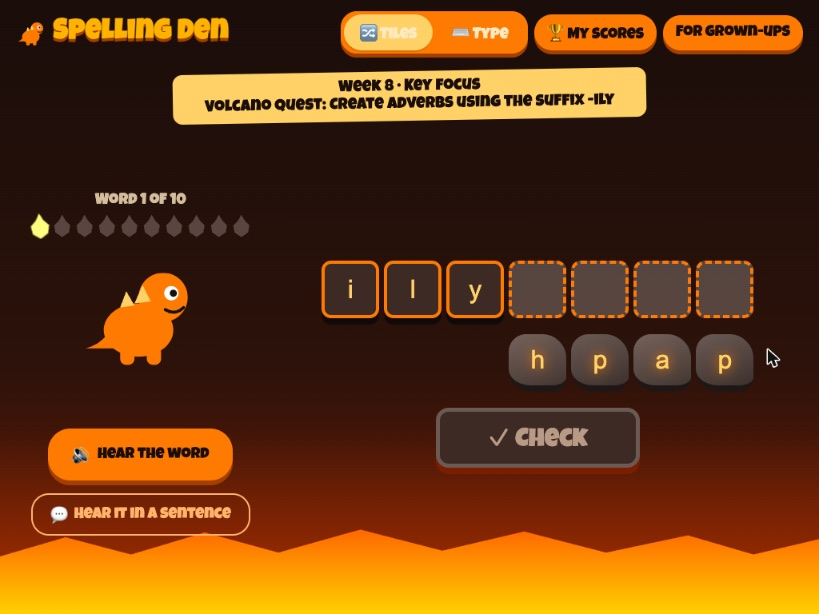
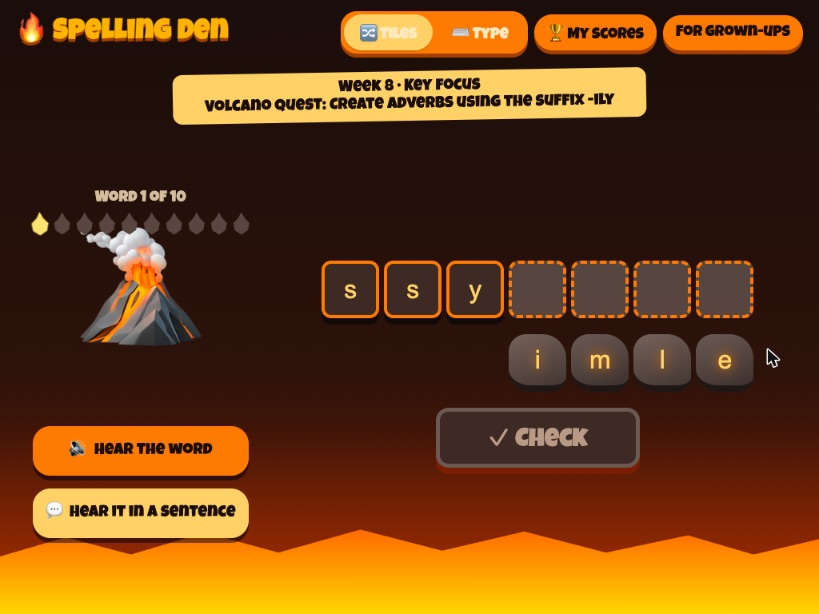
Theme mascots replace the dinosaur on home and spelling pages (pixel space invader, space rocket, etc)

diff --git a/spelling-den/index.html b/spelling-den/index.html
@@ -30,15 +30,11 @@
       <circle cx="90" cy="42" r="7" fill="#fff"/><circle cx="92" cy="42" r="3.5" fill="#111"/>
       <path d="M84 58 Q94 64 102 56" stroke="#111" stroke-width="3" fill="none" stroke-linecap="round"/>
     </symbol>
-    <symbol id="dino-pix" viewBox="0 0 120 120" shape-rendering="crispEdges">
-      <g style="fill:var(--dino-body,#00ff88)"><rect x="24" y="60" width="60" height="36"/><rect x="60" y="24" width="48" height="48"/><rect x="12" y="84" width="16" height="12"/><rect x="36" y="96" width="16" height="16"/><rect x="64" y="96" width="16" height="16"/></g>
-      <g style="fill:var(--dino-spike,#ff3df2)"><rect x="36" y="48" width="12" height="12"/><rect x="52" y="40" width="12" height="20"/></g>
-      <rect x="84" y="36" width="12" height="12" fill="#fff"/><rect x="90" y="40" width="6" height="6" fill="#14052e"/>
-    </symbol>
+    <symbol id="dino-pix" viewBox="0 0 120 120" shape-rendering="crispEdges"><g style="fill:var(--dino-body,#00ff88)"><rect x="25" y="20" width="10" height="10"/><rect x="85" y="20" width="10" height="10"/><rect x="35" y="30" width="10" height="10"/><rect x="75" y="30" width="10" height="10"/><rect x="25" y="40" width="10" height="10"/><rect x="35" y="40" width="10" height="10"/><rect x="45" y="40" width="10" height="10"/><rect x="55" y="40" width="10" height="10"/><rect x="65" y="40" width="10" height="10"/><rect x="75" y="40" width="10" height="10"/><rect x="85" y="40" width="10" height="10"/><rect x="15" y="50" width="10" height="10"/><rect x="25" y="50" width="10" height="10"/><rect x="45" y="50" width="10" height="10"/><rect x="55" y="50" width="10" height="10"/><rect x="65" y="50" width="10" height="10"/><rect x="85" y="50" width="10" height="10"/><rect x="95" y="50" width="10" height="10"/><rect x="5" y="60" width="10" height="10"/><rect x="15" y="60" width="10" height="10"/><rect x="25" y="60" width="10" height="10"/><rect x="35" y="60" width="10" height="10"/><rect x="45" y="60" width="10" height="10"/><rect x="55" y="60" width="10" height="10"/><rect x="65" y="60" width="10" height="10"/><rect x="75" y="60" width="10" height="10"/><rect x="85" y="60" width="10" height="10"/><rect x="95" y="60" width="10" height="10"/><rect x="105" y="60" width="10" height="10"/><rect x="5" y="70" width="10" height="10"/><rect x="25" y="70" width="10" height="10"/><rect x="35" y="70" width="10" height="10"/><rect x="45" y="70" width="10" height="10"/><rect x="55" y="70" width="10" height="10"/><rect x="65" y="70" width="10" height="10"/><rect x="75" y="70" width="10" height="10"/><rect x="85" y="70" width="10" height="10"/><rect x="105" y="70" width="10" height="10"/><rect x="5" y="80" width="10" height="10"/><rect x="25" y="80" width="10" height="10"/><rect x="85" y="80" width="10" height="10"/><rect x="105" y="80" width="10" height="10"/><rect x="35" y="90" width="10" height="10"/><rect x="45" y="90" width="10" height="10"/><rect x="65" y="90" width="10" height="10"/><rect x="75" y="90" width="10" height="10"/></g></symbol>
   </svg>
   <div class="app">
     <header class="top-bar">
-      <a class="brand" href="../index.html"><span class="brand-dino"><span class="dino-emoji">🦕</span><svg class="dino-svg dino-smooth" aria-hidden="true"><use href="#dino-sym"/></svg><svg class="dino-svg dino-pixel" aria-hidden="true"><use href="#dino-pix"/></svg></span> <span>Spelling Den</span></a>
+      <a class="brand" href="../index.html"><span class="brand-dino"><span class="dino-emoji">🦕</span><span class="dino-mascot" aria-hidden="true"></span><svg class="dino-svg dino-pixel" aria-hidden="true"><use href="#dino-pix"/></svg></span> <span>Spelling Den</span></a>
       <div class="top-bar-actions">
         <div id="modeToggle" class="mode-toggle" role="group" aria-label="How to enter letters">
           <button id="modeTilesBtn" class="mode-btn" type="button" aria-pressed="true">🔀 Tiles</button>
@@ -59,7 +55,7 @@
         <div id="wordProgressLabel" class="word-progress-label">Word 1 of 10</div>
         <div id="progressDots" class="progress-dots"></div>
       </div>
-      <div id="dino" class="dino" aria-hidden="true"><span class="dino-emoji">🦖</span><svg class="dino-svg dino-smooth" aria-hidden="true"><use href="#dino-sym"/></svg><svg class="dino-svg dino-pixel" aria-hidden="true"><use href="#dino-pix"/></svg></div>
+      <div id="dino" class="dino" aria-hidden="true"><span class="dino-emoji">🦖</span><span class="dino-mascot" aria-hidden="true"></span><svg class="dino-svg dino-pixel" aria-hidden="true"><use href="#dino-pix"/></svg></div>
       <div id="cheer" class="cheer" aria-hidden="true"></div>
       <p id="liveStatus" class="sr-only" role="status" aria-live="polite"></p>
       <button id="hearBtn" class="hear-btn" type="button" aria-label="Hear the word">
@@ -81,7 +77,7 @@
 
     <div id="roundComplete" class="round-complete" hidden>
       <div class="round-complete-card">
-        <div id="roundCompleteDino" class="round-complete-dino" aria-hidden="true"><span class="dino-emoji">🦖</span><svg class="dino-svg dino-smooth" aria-hidden="true"><use href="#dino-sym"/></svg><svg class="dino-svg dino-pixel" aria-hidden="true"><use href="#dino-pix"/></svg></div>
+        <div id="roundCompleteDino" class="round-complete-dino" aria-hidden="true"><span class="dino-emoji">🦖</span><span class="dino-mascot" aria-hidden="true"></span><svg class="dino-svg dino-pixel" aria-hidden="true"><use href="#dino-pix"/></svg></div>
         <div id="roundCompleteEggs" class="progress-dots round-complete-eggs" aria-hidden="true"></div>
         <div class="round-complete-score">
           <strong id="roundCompleteScore" class="round-complete-number"></strong>
@@ -116,7 +112,7 @@
 
   <div id="yearSelect" class="year-select">
     <div class="year-select-card">
-      <div class="round-complete-emoji"><span class="dino-emoji">🦕</span><svg class="dino-svg dino-smooth" aria-hidden="true"><use href="#dino-sym"/></svg><svg class="dino-svg dino-pixel" aria-hidden="true"><use href="#dino-pix"/></svg></div>
+      <div class="round-complete-emoji"><span class="dino-emoji">🦕</span><span class="dino-mascot" aria-hidden="true"></span><svg class="dino-svg dino-pixel" aria-hidden="true"><use href="#dino-pix"/></svg></div>
       <h2 class="year-select-heading">Spelling Den</h2>
       <p class="year-select-sub">Which spellings today?</p>
       <button id="year3Btn" class="play-again-btn year-select-btn" type="button">Year 3</button>

diff --git a/css/themes.css b/css/themes.css
@@ -292,3 +292,17 @@ html[data-theme="split"] body, html[data-theme="split"] .home, html[data-theme="
 html[data-theme="pixel"] .tile { min-width: 0; }
 html[data-theme="pixel"] .tile { padding-left: 12px; padding-right: 12px; }
 html[data-theme="pixel"]:not([data-x]) .tile .tile-label { font-size: clamp(0.8rem, 2.4vw, 1.3rem); max-width: 100%; overflow-wrap: anywhere; text-align: center; line-height: 1.5; }
+
+/* Theme mascots replace the dinosaurs (home + spelling). Hiding the dino text and showing a themed emoji via ::before. */
+html[data-theme="candy"] { --mascot-a: "🧁"; --mascot-b: "🍭"; }
+html[data-theme="jungle"] { --mascot-a: "🐒"; --mascot-b: "🦜"; }
+html[data-theme="space"] { --mascot-a: "🛸"; --mascot-b: "🚀"; }
+html[data-theme="sticker"] { --mascot-a: "⭐"; --mascot-b: "🌟"; }
+html[data-theme="ocean"] { --mascot-a: "🐙"; --mascot-b: "🐠"; }
+html[data-theme="pixel"] { --mascot-a: "👾"; --mascot-b: "👾"; }
+html[data-theme="rainbow"] { --mascot-a: "🌈"; --mascot-b: "🦄"; }
+html[data-theme="lava"] { --mascot-a: "🔥"; --mascot-b: "🌋"; }
+html[data-theme="comic"] { --mascot-a: "💥"; --mascot-b: "🤖"; }
+html[data-theme="split"] { --mascot-a: "⚡"; --mascot-b: "😎"; }
+.mascot[data-m="a"]::before { content: var(--mascot-a, "🦕"); }
+.mascot[data-m="b"]::before { content: var(--mascot-b, "🦖"); }

diff --git a/index.html b/index.html
@@ -18,20 +18,20 @@
 <body data-theme-picker>
   <div class="home">
     <header class="home-header">
-      <div class="home-brand">🦕 <span>Reading Den</span></div>
+      <div class="home-brand"><span class="mascot" data-m="a"></span> <span>Reading Den</span></div>
     </header>
 
     <main class="tile-area">
       <a class="tile tile-book" href="read-den/index.html">
-        <span class="tile-emoji" aria-hidden="true">📖🦖</span>
+        <span class="tile-emoji" aria-hidden="true">📖<span class="mascot" data-m="b"></span></span>
         <span class="tile-label">Read a Book</span>
       </a>
       <a class="tile tile-game" href="word-den/index.html">
-        <span class="tile-emoji" aria-hidden="true">🦕</span>
+        <span class="tile-emoji" aria-hidden="true"><span class="mascot" data-m="a"></span></span>
         <span class="tile-label">Word Game</span>
       </a>
       <a class="tile tile-spelling" href="spelling-den/index.html">
-        <span class="tile-emoji" aria-hidden="true">🔤🦖</span>
+        <span class="tile-emoji" aria-hidden="true">🔤<span class="mascot" data-m="b"></span></span>
         <span class="tile-label">Spellings</span>
       </a>
     </main>

diff --git a/spelling-den/css/themes-spelling.css b/spelling-den/css/themes-spelling.css
@@ -401,3 +401,10 @@
 }
 :root[data-theme]:not([data-theme="none"]) body .hear-sentence-btn { background: var(--hs-bg); color: var(--hs-ink); }
 :root[data-theme="jungle"] body .hear-sentence-btn { text-transform: uppercase; letter-spacing: 0.05em; }
+
+/* Mascot replaces the SVG dino everywhere on the spelling page */
+.dino-mascot { display: none; }
+:root[data-theme]:not([data-theme="none"]) .dino-mascot { display: block; line-height: 1; }
+:root[data-theme]:not([data-theme="none"]) .dino-mascot::before { content: var(--mascot-b); }
+:root[data-theme]:not([data-theme="none"]) .brand-dino .dino-mascot::before, :root[data-theme]:not([data-theme="none"]) .round-complete-emoji .dino-mascot::before { content: var(--mascot-a); }
+:root[data-theme="pixel"] .dino-mascot { display: none !important; }

diff --git a/sw.js b/sw.js
@@ -5,7 +5,7 @@
 // The VERSION and PRECACHE lines are rewritten by `node scripts/build-sw.js`
 // — run it after adding or changing files so a new device can install the
 // whole app (including all the audio) in one go.
-const VERSION = "578d113183";
+const VERSION = "f4c06e8392";
 const PRECACHE = [
   "./",
   "./css/home.css",
